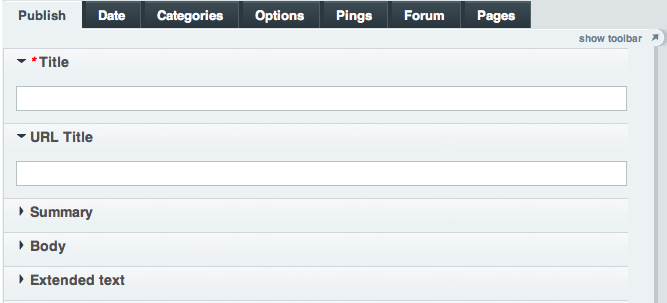
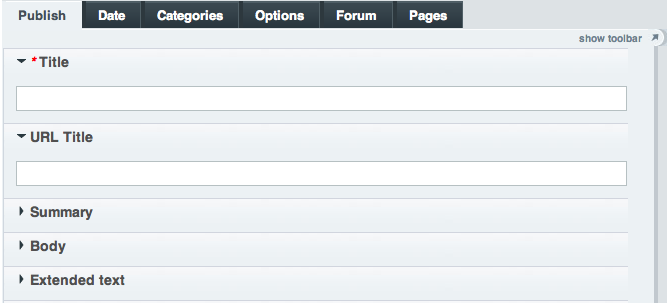
Removing Ping references in Publish page

Changed region(s): [[0.5997, 0.0, 0.8096, 0.1188], [0.5097, 0.0297, 0.5697, 0.0891], [0.5697, 0.0, 0.5997, 0.0297]]

diff --git a/source/cp/content/publish.rst b/source/cp/content/publish.rst
@@ -188,14 +188,6 @@ If this option is checked, then comments will be allowed for this entry.
 When this option is unchecked, your comment submission form will be
 suppressed. Any existing comments will still appear.
 
-Pings Tab
----------
-
-The ping tab allows you to send "pings" to the Ping Servers you have
-defined in your My Account > Ping Servers area.
-
-|Publish Pings Tab|
-
 .. _publish-forum-tab:
 
 Forum Tab
@@ -311,7 +303,6 @@ when the above URI is requested.
 .. |Publish Calendar| image:: ../../images/publish_cal.png
 .. |Publish Categories| image:: ../../images/publish_cats.png
 .. |Publish Options Tab| image:: ../../images/publish_options.png
-.. |Publish Pings Tab| image:: ../../images/publish_pings.png
 .. |Publish Forum| image:: ../../images/publish_forum.png
 .. |Publish Revisions Tab| image:: ../../images/publish_revisions.png
 .. |Publish Pages| image:: ../../images/publish_pages.png
